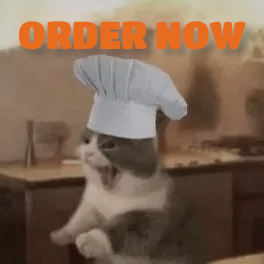
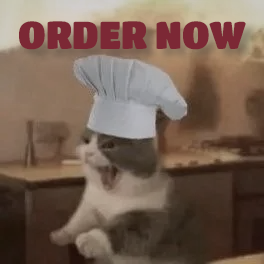
fixed dialog behavior when opening dialog before breakpoint and increasing width to >999px

Changed region(s): [[0.0606, 0.0606, 0.9394, 0.2121]]

diff --git a/index.html b/index.html
@@ -5,7 +5,6 @@
     <meta name="viewport" content="width=device-width, initial-scale=1.0" />
     <title>Order App</title>
     <link rel="icon" type="image/png" href="favicon.png" />
-
     <link rel="stylesheet" href="assets/css/fonts.css" />
     <link rel="stylesheet" href="assets/css/standard.css" />
     <link rel="stylesheet" href="style.css" />
@@ -84,7 +83,7 @@
 
     <nav class="mobile-nav">
       <a href="#" class="nav-link" aria-label="Homepage">
-        <svg width="22" height="24" viewBox="0 0 22 24" fill="none" xmlns="http://www.w3.org/2000/svg">
+        <svg width="22" height="24" viewBox="0 0 22 24" fill="none" xmlns="http://www.w3.org/2000/svg" aria-hidden="true">
           <path
             d="M2.75 21.2571H6.875V14.4C6.875 14.0114 7.00677 13.6857 7.27031 13.4229C7.53385 13.16 7.86042 13.0286 8.25 13.0286H13.75C14.1396 13.0286 14.4661 13.16 14.7297 13.4229C14.9932 13.6857 15.125 14.0114 15.125 14.4V21.2571H19.25V8.91429L11 2.74286L2.75 8.91429V21.2571ZM0 21.2571V8.91429C0 8.48 0.0973958 8.06857 0.292188 7.68C0.486979 7.29143 0.75625 6.97143 1.1 6.72L9.35 0.548571C9.83125 0.182857 10.3813 0 11 0C11.6187 0 12.1687 0.182857 12.65 0.548571L20.9 6.72C21.2437 6.97143 21.513 7.29143 21.7078 7.68C21.9026 8.06857 22 8.48 22 8.91429V21.2571C22 22.0114 21.7307 22.6571 21.1922 23.1943C20.6536 23.7314 20.0063 24 19.25 24H13.75C13.3604 24 13.0339 23.8686 12.7703 23.6057C12.5068 23.3429 12.375 23.0171 12.375 22.6286V15.7714H9.625V22.6286C9.625 23.0171 9.49323 23.3429 9.22969 23.6057C8.96615 23.8686 8.63958 24 8.25 24H2.75C1.99375 24 1.34635 23.7314 0.807813 23.1943C0.269271 22.6571 0 22.0114 0 21.2571Z"
             fill="currentColor" />
@@ -92,7 +91,7 @@
       </a>
 
       <a href="#" class="nav-link" aria-label="Profile">
-        <svg width="24" height="24" viewBox="0 0 24 24" fill="none" xmlns="http://www.w3.org/2000/svg">
+        <svg width="24" height="24" viewBox="0 0 24 24" fill="none" xmlns="http://www.w3.org/2000/svg" aria-hidden="true">
           <path
             d="M12 12C10.35 12 8.9375 11.4125 7.7625 10.2375C6.5875 9.0625 6 7.65 6 6C6 4.35 6.5875 2.9375 7.7625 1.7625C8.9375 0.5875 10.35 0 12 0C13.65 0 15.0625 0.5875 16.2375 1.7625C17.4125 2.9375 18 4.35 18 6C18 7.65 17.4125 9.0625 16.2375 10.2375C15.0625 11.4125 13.65 12 12 12ZM0 21V19.8C0 18.95 0.21875 18.1688 0.65625 17.4562C1.09375 16.7437 1.675 16.2 2.4 15.825C3.95 15.05 5.525 14.4688 7.125 14.0813C8.725 13.6937 10.35 13.5 12 13.5C13.65 13.5 15.275 13.6937 16.875 14.0813C18.475 14.4688 20.05 15.05 21.6 15.825C22.325 16.2 22.9062 16.7437 23.3438 17.4562C23.7812 18.1688 24 18.95 24 19.8V21C24 21.825 23.7063 22.5313 23.1188 23.1188C22.5313 23.7063 21.825 24 21 24H3C2.175 24 1.46875 23.7063 0.88125 23.1188C0.29375 22.5313 0 21.825 0 21ZM3 21H21V19.8C21 19.525 20.9313 19.275 20.7938 19.05C20.6563 18.825 20.475 18.65 20.25 18.525C18.9 17.85 17.5375 17.3438 16.1625 17.0063C14.7875 16.6688 13.4 16.5 12 16.5C10.6 16.5 9.2125 16.6688 7.8375 17.0063C6.4625 17.3438 5.1 17.85 3.75 18.525C3.525 18.65 3.34375 18.825 3.20625 19.05C3.06875 19.275 3 19.525 3 19.8V21ZM12 9C12.825 9 13.5313 8.70625 14.1188 8.11875C14.7063 7.53125 15 6.825 15 6C15 5.175 14.7063 4.46875 14.1188 3.88125C13.5313 3.29375 12.825 3 12 3C11.175 3 10.4688 3.29375 9.88125 3.88125C9.29375 4.46875 9 5.175 9 6C9 6.825 9.29375 7.53125 9.88125 8.11875C10.4688 8.70625 11.175 9 12 9Z"
             fill="currentColor" />
@@ -100,7 +99,7 @@
       </a>
 
       <a href="#" class="nav-link" aria-label="Menu">
-        <svg width="21" height="24" viewBox="0 0 21 24" fill="none" xmlns="http://www.w3.org/2000/svg">
+        <svg width="21" height="24" viewBox="0 0 21 24" fill="none" xmlns="http://www.w3.org/2000/svg" aria-hidden="true">
           <path
             d="M1.49148 24C1.10155 24 0.789609 23.845 0.555651 23.535C0.321693 23.225 0.253455 22.88 0.350937 22.5L4.73765 4.5L4.67916 3.66C4.65967 3.32 4.54269 3.025 4.32823 2.775C4.11377 2.525 3.84081 2.4 3.50937 2.4C3.17793 2.4 2.90011 2.515 2.6759 2.745C2.45169 2.975 2.33958 3.26 2.33958 3.6V4.8C2.33958 5.14 2.22748 5.425 2.00327 5.655C1.77906 5.885 1.50123 6 1.16979 6C0.83835 6 0.560525 5.885 0.336315 5.655C0.112105 5.425 0 5.14 0 4.8V3.6C0 2.6 0.341189 1.75 1.02357 1.05C1.70595 0.35 2.53455 0 3.50937 0H16.4356C17.3714 0 18.1756 0.325 18.8483 0.975C19.5209 1.625 19.8864 2.43 19.9449 3.39L20.9978 22.74C21.0172 23.08 20.91 23.375 20.6761 23.625C20.4421 23.875 20.1594 24 19.828 24H1.49148ZM3.04146 21.6H5.76122L5.20557 12.48L3.04146 21.6ZM8.13005 21.6H18.5997L17.6054 3.54C17.5859 3.22 17.464 2.95 17.2398 2.73C17.0156 2.51 16.7475 2.4 16.4356 2.4H6.81403C6.89202 2.6 6.94076 2.795 6.96026 2.985C6.97975 3.175 6.99925 3.38 7.01875 3.6L8.13005 21.6ZM12.5753 19.2C12.8287 19.2 13.0383 19.115 13.204 18.945C13.3697 18.775 13.4526 18.56 13.4526 18.3V14.4C13.9595 14.28 14.3787 14.005 14.7101 13.575C15.0416 13.145 15.2073 12.65 15.2073 12.09V7.8C15.2073 7.64 15.1488 7.5 15.0318 7.38C14.9148 7.26 14.7784 7.2 14.6224 7.2C14.4664 7.2 14.3299 7.26 14.213 7.38C14.096 7.5 14.0375 7.64 14.0375 7.8V11.73H13.1601V7.8C13.1601 7.64 13.1017 7.5 12.9847 7.38C12.8677 7.26 12.7312 7.2 12.5753 7.2C12.4193 7.2 12.2828 7.26 12.1658 7.38C12.0488 7.5 11.9904 7.64 11.9904 7.8V11.73H11.113V7.8C11.113 7.64 11.0545 7.5 10.9375 7.38C10.8206 7.26 10.6841 7.2 10.5281 7.2C10.3721 7.2 10.2357 7.26 10.1187 7.38C10.0017 7.5 9.94322 7.64 9.94322 7.8V12.09C9.94322 12.65 10.1089 13.145 10.4404 13.575C10.7718 14.005 11.191 14.28 11.6979 14.4V18.3C11.6979 18.56 11.7808 18.775 11.9465 18.945C12.1122 19.115 12.3218 19.2 12.5753 19.2Z"
             fill="currentColor" />

diff --git a/assets/js/db.js b/assets/js/db.js
@@ -41,28 +41,28 @@ const menuArray = [
     items: [
       {
         src: "assets/images/pizza_margherita.webp",
-        name: "Margherita",
+        name: "Margherita Pizza",
         ingredients: ["Tomato Sauce", "Mozzarella"],
         price: 11.9,
         quantity: 0,
       },
       {
         src: "assets/images/pizza_salami.webp",
-        name: "Salami",
+        name: "Salami Pizza ",
         ingredients: ["Tomato slices", "Mozzarella", "Salami"],
         price: 13.9,
         quantity: 0,
       },
       {
         src: "assets/images/pizza_pineapple.webp",
-        name: "Hawaiian",
-        ingredients: ["Prosciutto", "Pineapple", "Tomato Sauce", "Basil"],
+        name: "Special Pineapple Pizza",
+        ingredients: ["BBQ Sauce", "Mozzarella", "Pulled Chicken", "Pineapple", "Red Onions", "Fresh Cilantro"],
         price: 12.9,
         quantity: 0,
       },
       {
         src: "assets/images/pizza_with_ricotta_cheese.webp",
-        name: "Quattro Formaggi With Chicken",
+        name: "Ricotta Cheese Pizza",
         ingredients: ["Prosciutto", "Ricotta Cheese", "Mozzarella", "Tomato Sauce"],
         price: 14.9,
         quantity: 0,
@@ -76,14 +76,14 @@ const menuArray = [
     items: [
       {
         src: "assets/images/rigatoni_with_cream_sauce.webp",
-        name: "Rigatoni",
+        name: "Rigatoni Pasta",
         ingredients: ["Rigatoni Pasta", "Creamy Garlic Sauce", "Pulled Chicken", "Grated Parmesan", "Fresh Chives"],
         price: 13.9,
         quantity: 0,
       },
       {
         src: "assets/images/shrimp_linguine_with_fresh_basil_and-cherry_tomatoes.webp",
-        name: "Shrimp Liguine",
+        name: "Shrimp Liguine Pasta",
         ingredients: ["Linguine Pasta", "Sautéed Shrimp", "Cherry Tomatoes", "Garlic Butter", "Grated Parmesan", "Fresh Basil"],
         price: 15.9,
         quantity: 0,
@@ -91,7 +91,7 @@ const menuArray = [
       {
         src: "assets/images/melting_lasagna_bolognese.webp",
         name: "Lasagne",
-        ingredients: ["Lasagna pasta sheets", "Slow-cooked beef ragù", "Creamy béchamel sauce", "Melted mozzarella", "Grated Parmesan", "Fresh basil"],
+        ingredients: ["Slow-Cooked Beef Ragù", "Creamy Béchamel Sauce", "Melted Mozzarella", "Grated Parmesan", "Fresh Basil"],
         price: 12.9,
         quantity: 0,
       },

diff --git a/script.js b/script.js
@@ -28,6 +28,7 @@ renderMenu();
 
 function initBasketDialog() {
   const dialogRef = document.getElementById("basket-dialog");
+  const desktopBreakpoint = window.matchMedia("(min-width: 1000px)");
 
   document.getElementById("cart").addEventListener("click", () => {
     dialogRef.showModal();
@@ -41,6 +42,12 @@ function initBasketDialog() {
 
   dialogRef.addEventListener("close", () => {
     dialogRef.classList.remove("slide-up");
+  });
+
+  desktopBreakpoint.addEventListener("change", (event) => {
+    if (event.matches && dialogRef.open) {
+      dialogRef.close();
+    }
   });
 }
 initBasketDialog();

diff --git a/style.css b/style.css
@@ -116,7 +116,7 @@ main {
     }
 
     .rating-count {
-        color: #726D6D;
+        color: #242323;
         font-family: var(--font-base);
         font-size: 1.125rem;
     }
@@ -220,7 +220,7 @@ footer {
 .cart {
     position: relative;
     display: inline-flex;
-    color: var(--primary-clr);
+    color: #ca3f56;
     background-color: transparent;
     border: none;
 

diff --git a/assets/css/dialogs.css b/assets/css/dialogs.css
@@ -98,7 +98,7 @@
 }
 
 .basket-items::-webkit-scrollbar-thumb {
-    background-color: var(--primary-clr);
+    background-color: #862435;
     border-radius: 10px;
 }
 
@@ -232,7 +232,7 @@
 
 .delivery-fee-free {
     font-weight: 700;
-    color: var(--primary-clr);
+    color: #ca3f56;
     font-size: 1em;
 }
 

diff --git a/assets/css/menu.css b/assets/css/menu.css
@@ -109,7 +109,7 @@
 
 .product-image {
     width: 100%;
-    height: 7.5rem;
+    height: 9rem;
     border-radius: 12px;
     object-fit: cover;
 
@@ -146,6 +146,7 @@
 }
 
 .product-ingredients {
+    max-width: 30rem;
     font-size: 1rem;
     font-weight: 500;
     padding-bottom: 1rem;

diff --git a/assets/css/standard.css b/assets/css/standard.css
@@ -36,7 +36,7 @@ p, h1, h2, h3, h4, h5, h6 {
 /* #endregion */
 
 :root {
-    --primary-clr: #E76C1F;
+    --primary-clr: #5e252e;
     --secondary-clr: #363534;
     --tertiary-clr: #fdeadc;
     --font-base: 'Palanquin', sans-serif;
